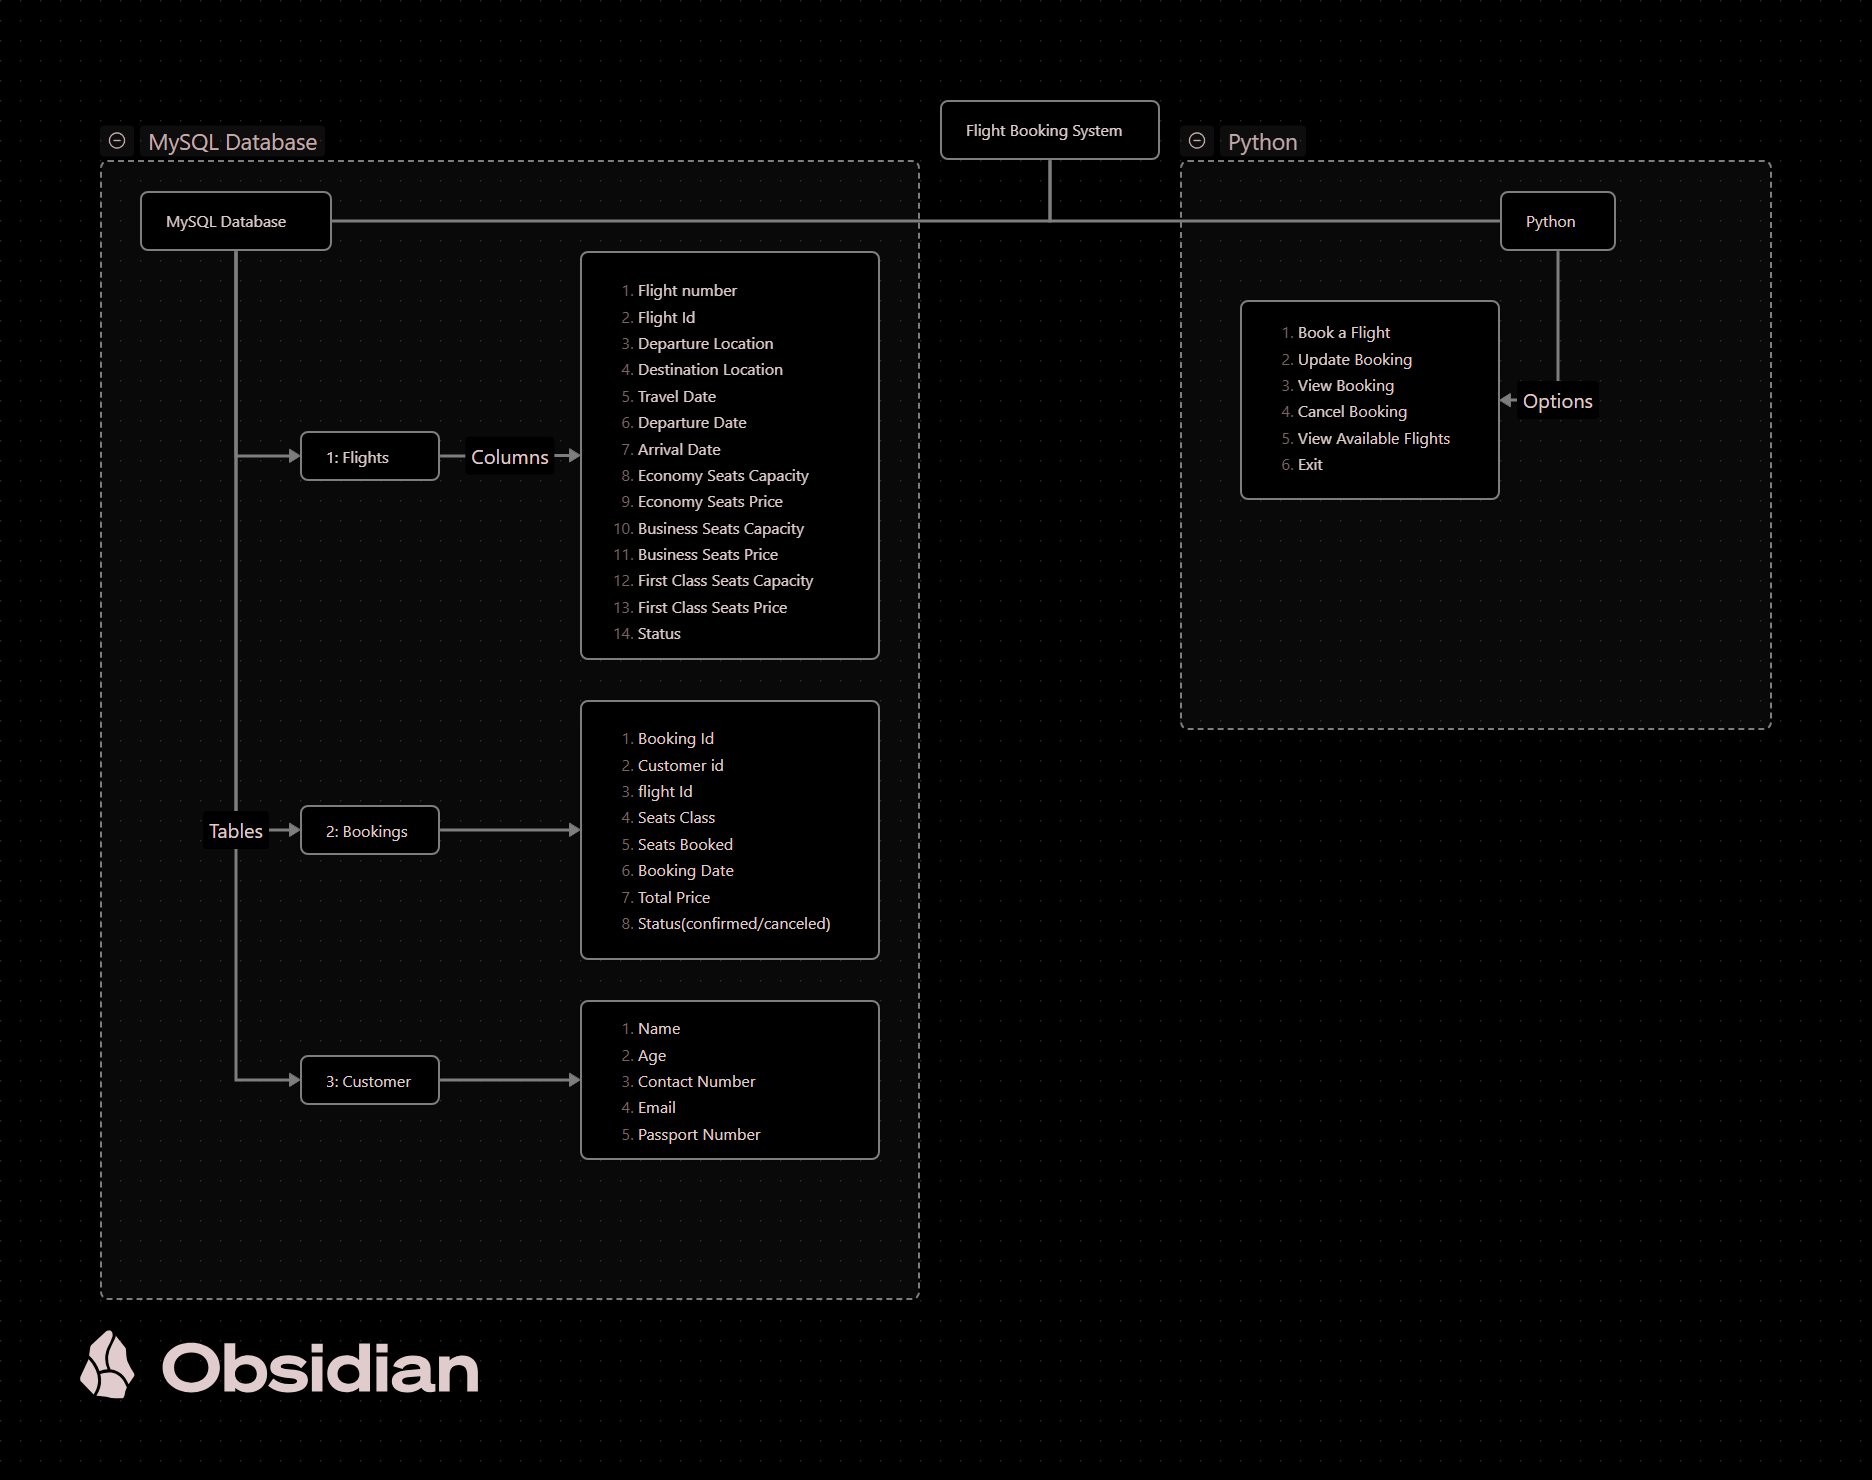
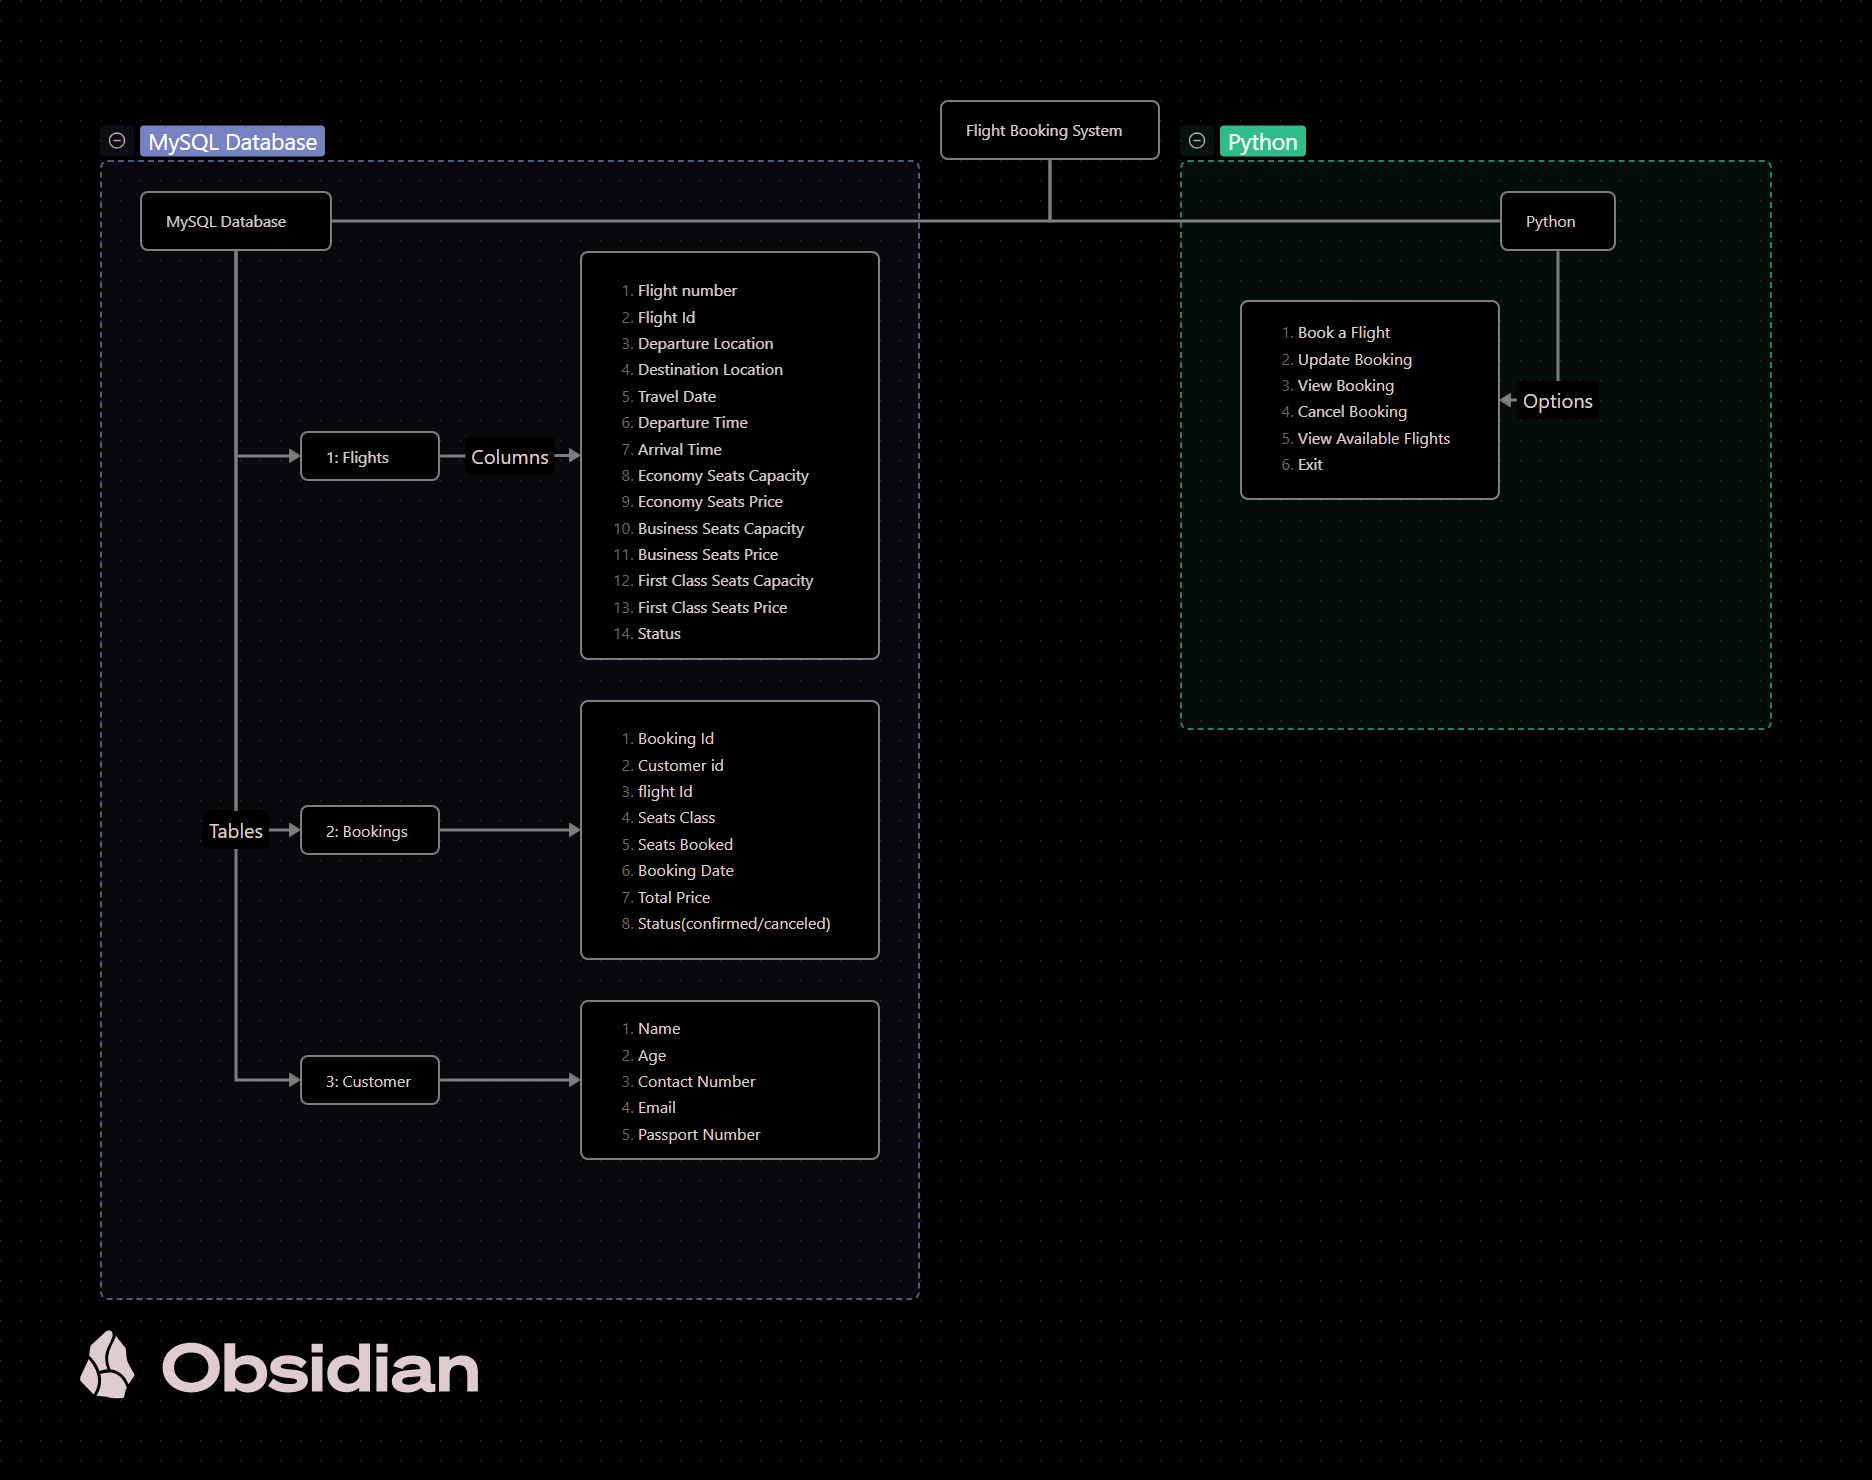
update

Changed region(s): [[0.062, 0.0622, 0.1859, 0.1243], [0.6506, 0.0622, 0.7126, 0.1243], [0.3718, 0.2797, 0.4028, 0.3108]]

diff --git a/flight_system.py b/flight_system.py
@@ -9,9 +9,21 @@ try:
         print("Connection with MySQL is Successfull")
         cur=mycon.cursor()
         cur.execute("CREATE DATABASE IF NOT EXISTS flight_booking_system")
-        cur.execute("USE DATABAST flight_booking_system")
-        cur.execute("CREATE TABLE FLIGHTS()")
-except Error as e:
+        cur.execute("USE flight_booking_system")
+        cur.execute("""CREATE TABLE IF NOT EXISTS FLIGHTS(
+            F_NAME VARCHAR(30),
+            F_ID INTEGER,
+            DEP_LOCN VARCHAR(30),
+            DEST_LOCN VARCHAR(30),
+            TVL_DATE DATE, DEP_TIME TIME,
+            ARVL_TIME TIME,
+            ECO_CAP INTEGER,
+            BNSS_CAP INTEGER,
+            FCLASS_CAP INTEGER,
+            ECO_PRICE INTEGER,
+            BNSS_PRICE INTEGER,
+            FCLASS_PRICE INTEGER)""")
+except Error as e: 
     print("Error while connecting to MySQL, Error: ", e)  
 # else:
     # print("Connection with MySQL Failed")
@@ -42,7 +54,7 @@ def bookflight():
     
     
     dot = input("Enter Date of Travel(YYYY-MM-DD): ")
-    seatclass = input("Select Seat Class || First Class | Business | Premium Economy | Economy || : ")
+    seatclass = input("Select Seat Class || First Class | Business | Economy || : ")
     # Feeding all data to database    
 
     # ---- Personal Details ----
